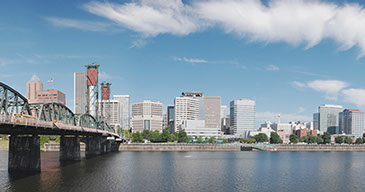
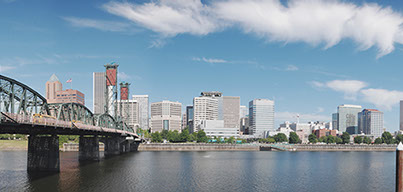
hayooo

diff --git a/phone/index.html b/phone/index.html
@@ -13,7 +13,7 @@
   <link rel="canonical" href="http://www.merhivaluationgroup.com/index.html"/>
   <!-- CSS -->
   <link rel="stylesheet" type="text/css" href="../css/site_global.css?426707417"/>
-  <link rel="stylesheet" type="text/css" href="css/index.css?373871877" id="pagesheet"/>
+  <link rel="stylesheet" type="text/css" href="css/index.css?507361625" id="pagesheet"/>
   <!-- Other scripts -->
   <script type="text/javascript">
    document.documentElement.className += ' js';
@@ -31,20 +31,18 @@
          <img class="ImageInclude position_content" id="u1136_img" data-src="../images/portland_pic438x192.jpg" src="../images/blank.gif" alt="" data-width="437" data-height="192"/>
         </div>
        </div>
-       <div class="SSSlide invi clip_frame clearfix grpelem" id="u1172"><!-- image -->
-        <div id="u1172_clip">
-         <img class="ImageInclude position_content" id="u1172_img" data-src="../images/portland-rock-lighthouse-sea-sun-dawn365x229.jpg" src="../images/blank.gif" alt="" data-width="365" data-height="228"/>
-        </div>
+       <div class="SSSlide invi clip_frame grpelem" id="u1172"><!-- image -->
+        <img class="block ImageInclude" id="u1172_img" data-src="../images/portland-rock-lighthouse-sea-sun-dawn-crop-u1172.jpg" src="../images/blank.gif" alt="" data-width="403" data-height="192"/>
        </div>
        <div class="SSSlide invi clip_frame grpelem" id="u1184"><!-- image -->
-        <img class="block ImageInclude" id="u1184_img" data-src="../images/portland_panorama3-crop-u1184.jpg" src="../images/blank.gif" alt="" data-width="365" data-height="192"/>
+        <img class="block ImageInclude" id="u1184_img" data-src="../images/portland_panorama3-crop-u1184.jpg" src="../images/blank.gif" alt="" data-width="403" data-height="192"/>
        </div>
       </div>
      </div>
     </div>
     <div class="clearfix colelem" id="pu1104"><!-- group -->
      <div class="clip_frame grpelem" id="u1104"><!-- image -->
-      <img class="block" id="u1104_img" src="../images/merhivaluationgroup.png" alt="" width="365" height="192"/>
+      <img class="block" id="u1104_img" src="../images/merhivaluationgroup.png" alt="" width="354" height="186"/>
      </div>
      <div class="sbg Button clearfix grpelem" id="pbuttonu1108"><!-- group -->
       <a class="nonblock nontext rounded-corners clearfix grpelem shadow" id="buttonu1108" href="articles.html"><!-- container box --><img class="grpelem" id="u1109-4" alt="Articles" width="74" height="17" src="../images/u1109-4.png"/><!-- rasterized frame --></a>

diff --git a/phone/css/index.css b/phone/css/index.css
@@ -1,7 +1,7 @@
 .version.index /* version checker */
 {
-	color: #000016;
-	background-color: #48D505;
+	color: #00001E;
+	background-color: #3DB959;
 }
 
 @-ms-viewport
@@ -61,7 +61,7 @@
 #u1131
 {
 	position: absolute;
-	width: 365px;
+	width: 403px;
 	height: 192px;
 	background-color: transparent;
 }
@@ -74,7 +74,7 @@
 #u1136
 {
 	z-index: 6;
-	width: 365px;
+	width: 403px;
 	height: 192px;
 	border-style: none;
 	border-color: transparent;
@@ -83,16 +83,23 @@
 	position: relative;
 }
 
+#u1136_clip
+{
+	overflow: hidden;
+	width: 403px;
+	height: 192px;
+}
+
 #u1136_img
 {
-	margin-left: -36px;
-	margin-right: -36px;
+	margin-left: -17px;
+	margin-right: -17px;
 }
 
 #u1172
 {
 	z-index: 8;
-	width: 365px;
+	width: 403px;
 	height: 192px;
 	border-style: none;
 	border-color: transparent;
@@ -101,23 +108,10 @@
 	position: relative;
 }
 
-#u1136_clip,#u1172_clip
-{
-	overflow: hidden;
-	width: 365px;
-	height: 192px;
-}
-
-#u1172_img
-{
-	margin-top: -18px;
-	margin-bottom: -18px;
-}
-
 #u1184
 {
 	z-index: 10;
-	width: 365px;
+	width: 403px;
 	height: 192px;
 	border-style: none;
 	border-color: transparent;
@@ -139,13 +133,13 @@
 #pu1104
 {
 	width: 0.01px;
-	margin-top: -192px;
+	margin-top: -189px;
 }
 
 #u1104
 {
 	z-index: 12;
-	width: 365px;
+	width: 354px;
 	background-color: transparent;
 	position: relative;
 	margin-right: -10000px;
@@ -155,7 +149,7 @@
 {
 	width: 0.01px;
 	margin-right: -10000px;
-	margin-top: 63px;
+	margin-top: 60px;
 	margin-left: 228px;
 }
 
@@ -227,7 +221,7 @@
 {
 	width: 0.01px;
 	margin-right: -10000px;
-	margin-top: 26px;
+	margin-top: 23px;
 	margin-left: 179px;
 }
 
@@ -304,7 +298,7 @@
 #u1107
 {
 	z-index: 3;
-	width: 365px;
+	width: 402px;
 	border-width: 1px;
 	border-style: solid;
 	border-color: #000000;
@@ -316,7 +310,7 @@
 
 #u1107_position_content
 {
-	margin-bottom: -56px;
+	margin-bottom: -62px;
 	padding-top: 18px;
 }
 
@@ -480,6 +474,7 @@
 	display: block;
 	vertical-align: top;
 	margin-left: 77px;
+	margin-top: 6px;
 	position: relative;
 }
 
@@ -532,7 +527,7 @@
 #u1194
 {
 	z-index: 2;
-	width: 365px;
+	width: 402px;
 	border-width: 1px;
 	border-style: solid;
 	border-color: #000000;
@@ -544,7 +539,7 @@
 #u1193-4
 {
 	z-index: 104;
-	width: 416px;
+	width: 427px;
 	min-height: 29px;
 	background-color: transparent;
 	text-align: center;
